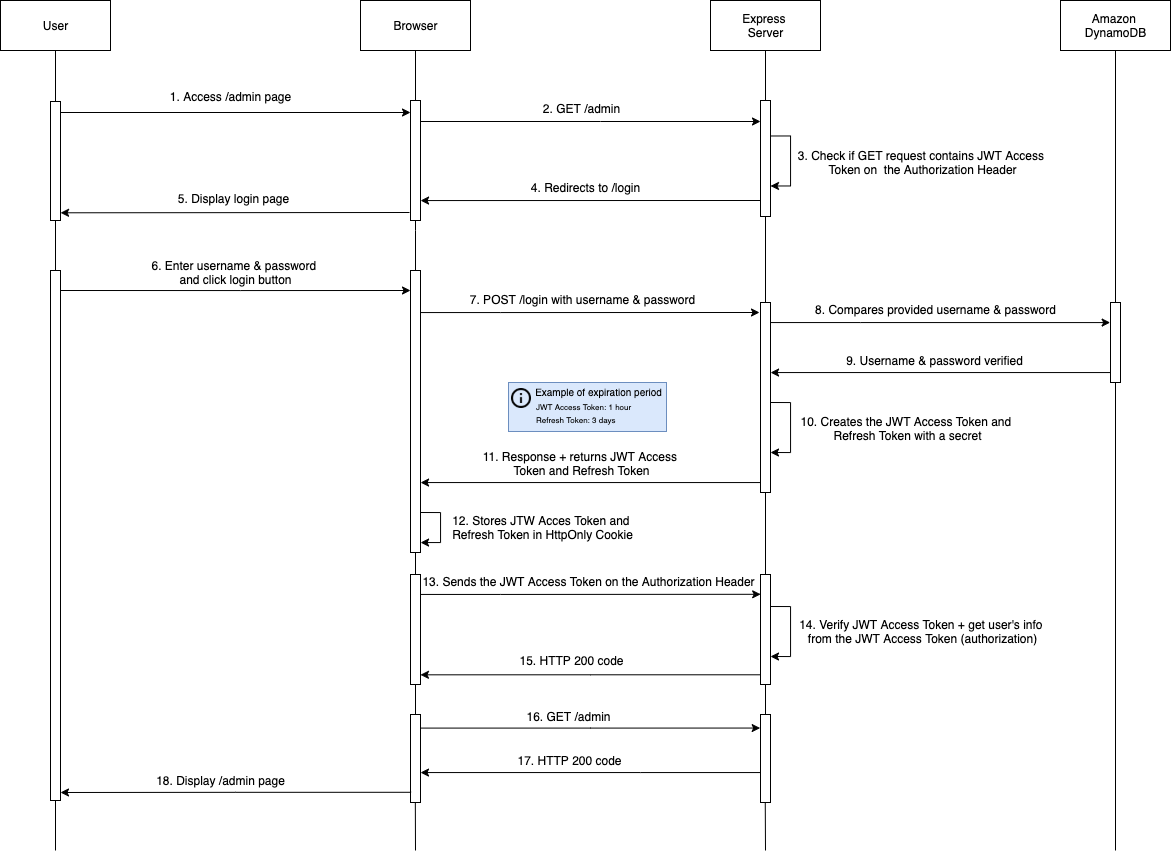
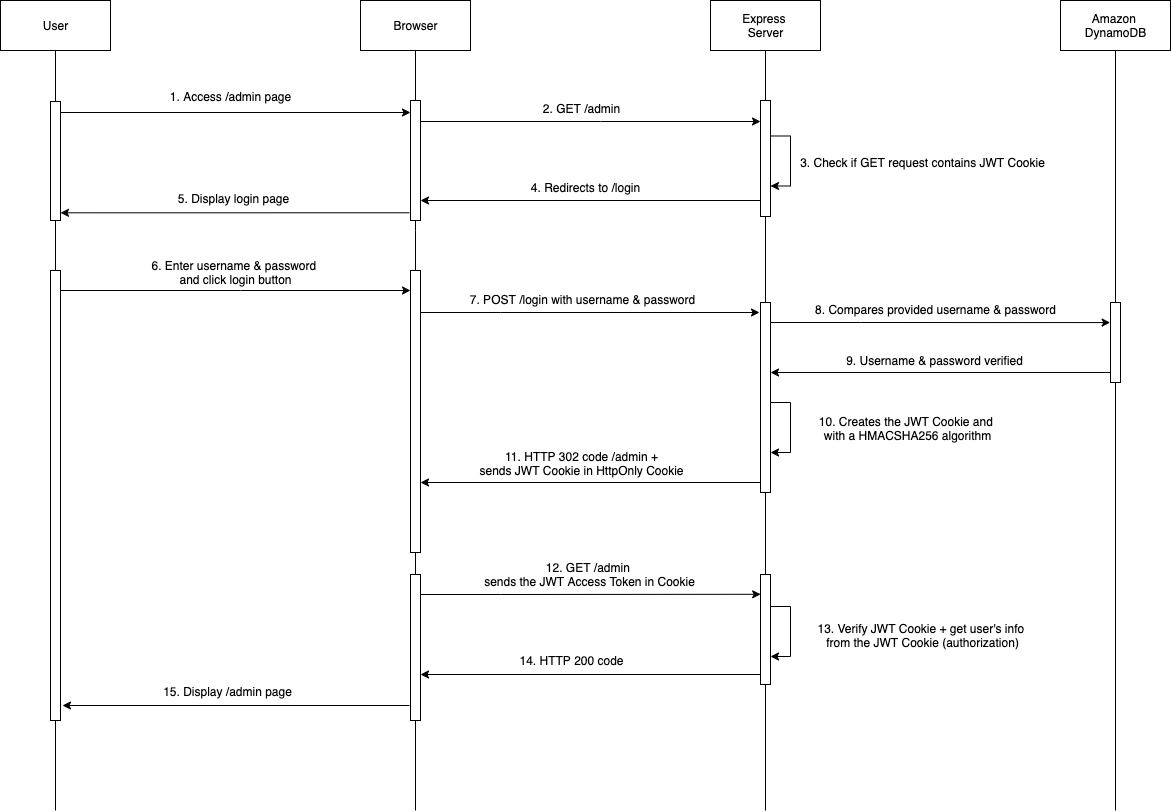
Update A&A diagram

diff --git a/doc/authentication/authentication.md b/doc/authentication/authentication.md
@@ -1,21 +1,20 @@
 # Authentication
-Authentication is utilized by `username` and `password` (credentials) provided by the user that are sent in a payload of HTTP request. Credentials from HTTP request are then compared with credentials stored in database for a particular user.
+Authentication is utilized by `username` and `password` (credentials) provided by the user that is sent in a payload of the HTTP request. Client's credentials from HTTP request are verified with hashed credentials in the database.\
+Since authentication throughout credentials is performed, the JWT access token is stored in Cookies in the client's browser, and used for every subsequent HTTP request (JWT access token does not need to be validated on every subsequent HTTP request - ***higher performance*** ).
 
 Authentication flow is described in [Authentication & Authorization Flow](#authentication-&-authorization-flow).
 
 # Authorization
 Authorization is utilized by [JSON Web Token](https://jwt.io/introduction) (JWT).\
 The advantage of JWT usage are:
-- JWT is stored on the client's side (in comparison with session that is stored on the server side)
-- the ease of client side processing of JWTs on multiple platforms (web and mobile applications)
-- smaller size when encoded (in comparison with XML)
+- JWT is stored on the client's side
+- the ease of client-side processing of JWTs on multiple platforms (web and mobile applications)
 
 Authorization flow is described in [Authentication & Authorization Flow](#authentication-&-authorization-flow).
 
 # Authentication & Authorization Flow
-Diagram below describes how the user (admin) is authenticated, including authorization to access a protected server resource (***/admin page***).\
-[Refresh token](https://auth0.com/blog/refresh-tokens-what-are-they-and-when-to-use-them/) is issued by the server to the client application that replaces an expired JWT access token with a new one. Refresh token allows get new access token without having to ask the user to log in again.\
-Access token and refresh token are also [***bearer tokens***](https://oauth.net/2/bearer-tokens/).
+The diagram below describes how the user (admin) is authenticated, including authorization to access a protected server resource (***/admin***).\
+JWT access token stored in Cookies allows the user to access the protected server resource without necessity to log in on every subsequent HTTP request. The user has to log in again when the JWT access token expires. The access token is also called the [***bearer token***](https://oauth.net/2/bearer-tokens/).
 
 
 ![A&A-flow](../diagrams/authentication-flow/A&A-flow.png)
